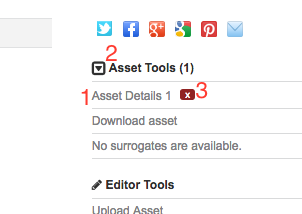
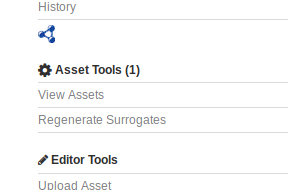
Update for new assets view

diff --git a/conf.py b/conf.py
@@ -55,9 +55,9 @@ author = u'Digital Repository of Ireland'
 # built documents.
 #
 # The short X.Y version.
-version = u'18.09'
+version = u'18.10'
 # The full version, including alpha/beta/rc tags.
-release = u'18.09'
+release = u'18.10'
 
 # The language for content autogenerated by Sphinx. Refer to documentation
 # for a list of supported languages.

diff --git a/depositor-guide/02-2-adding.rst b/depositor-guide/02-2-adding.rst
@@ -73,14 +73,23 @@ Until these are completed a temporary message will be shown in the asset display
 
    Asset upload processing pipeline
 
-To check on the progress of these processes you can select Asset Details (:numref:`fig-asset-tools` (1)) in the Asset Tools 
-menu (:numref:`fig-asset-tools` (2)). You can also delete the asset from this menu (:numref:`fig-asset-tools` (3)).
+To check on the progress of these processes you can select View Assets (:numref:`fig-asset-tools` (1)) in the Asset Tools 
+menu. 
 
 .. _fig-asset-tools:
 .. figure:: images/asset-tools.png
    :alt: Asset tools menu
 
    Asset tools menu
+
+This page list all the assets currently attached to the object. Here you can see the current processing status of the asset (:numref:`fig-assets` (1)).
+To get more information you can view the asset details (:numref:`fig-assets` (2)). You can also delete the asset (:numref:`fig-assets` (3)).
+
+.. _fig-assets:
+.. figure:: images/assets.png
+   :alt: View Assets
+
+   View Assets
 
 On the asset details page (:numref:`fig-asset-details`) you can view the metadata automatically extracted from the uploaded 
 file (:numref:`fig-asset-details` (1)). You can also see the progress and status of the background processes (:numref:`fig-asset-details` (2)). This will show if the task has succeeded or in the case of a failure will show the error. You can also choose to replace the asset with a different file (:numref:`fig-asset-details` (3)).
